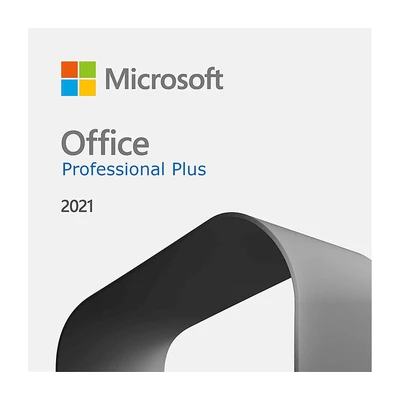
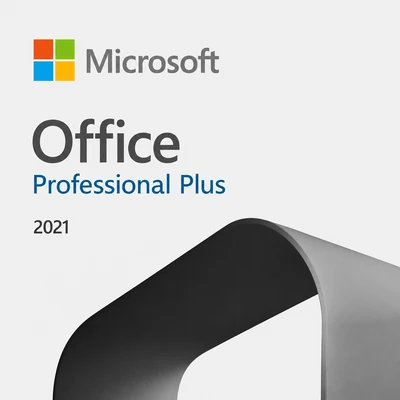
Sostituita immagine prodotto Office 2021 Professional Plus con versione ad alta risoluzione
Stesso crop/inquadratura dell'originale, ridimensionata a 400x400 per restare
coerente col resto del catalogo; rigenerato il gemello .jpg per Google
Merchant Center e ribassati gli hash ?v= su tutte le lingue.

Changed region(s): [[0.06, 0.27, 1.0, 1.0], [0.06, 0.09, 0.57, 0.24], [0.81, 0.6, 0.87, 0.63]]

diff --git a/pt/office-2021-professional-plus.html b/pt/office-2021-professional-plus.html
@@ -136,7 +136,7 @@
     <script src="../js/clarity-init.js?v=fe1cad51a4"></script>
     <link rel="icon" href="../favicon/favicon.png?v=48eb537367" type="image/png">
     <link rel="apple-touch-icon" href="../favicon/apple-touch-icon.png?v=c9d7938f28">
-    <link rel="preload" as="image" href="../asset/media/products/office-2021-professional-plus.webp?v=2e7f79cf4d" fetchpriority="high" type="image/webp">
+    <link rel="preload" as="image" href="../asset/media/products/office-2021-professional-plus.webp?v=621993c717" fetchpriority="high" type="image/webp">
     <link rel="stylesheet" href="../fonts/montserrat.css?v=3da8c0f35d">
     <!-- Font del mockup di riferimento (Plus Jakarta Sans + Inter), scopato alla
          sola PDP tramite --font-sans su .pdp-page — non tocca header/footer,
@@ -415,7 +415,7 @@
             </ecommerce-header>
     <div id="product-sticky-cta" class="product-sticky-cta" role="region" aria-label="Compra rápida" aria-hidden="true">
         <div class="product-sticky-cta__inner">
-            <img class="product-sticky-cta__thumb" src="../asset/media/products/office-2021-professional-plus.webp?v=2e7f79cf4d" width="40" height="40" alt="" loading="lazy" decoding="async">
+            <img class="product-sticky-cta__thumb" src="../asset/media/products/office-2021-professional-plus.webp?v=621993c717" width="40" height="40" alt="" loading="lazy" decoding="async">
             <div class="product-sticky-cta__name">
                 <span class="product-sticky-cta__title">Office 2021 Professional Plus</span>
                 <span class="product-sticky-cta__eta">Entrega em 2–15 min por email</span>
@@ -454,7 +454,7 @@
                 <p class="v2-hero__desc">Office 2021 Professional Plus: suite de secretária completa para Windows com licença digital ESD. Código e instruções por email após a compra.</p>
 
                 <figure class="pdp-media">
-                    <img class="pdp-media__img product-cover-img" src="../asset/media/products/office-2021-professional-plus.webp?v=2e7f79cf4d" width="400" height="400" alt="Office 2021 Professional Plus" fetchpriority="high" decoding="async">
+                    <img class="pdp-media__img product-cover-img" src="../asset/media/products/office-2021-professional-plus.webp?v=621993c717" width="400" height="400" alt="Office 2021 Professional Plus" fetchpriority="high" decoding="async">
                 </figure>
 
                 <div class="pdp-apptabs-block">

diff --git a/it/office-2021-professional-plus.html b/it/office-2021-professional-plus.html
@@ -136,7 +136,7 @@
     <script src="../js/clarity-init.js?v=fe1cad51a4"></script>
     <link rel="icon" href="../favicon/favicon.png?v=48eb537367" type="image/png">
     <link rel="apple-touch-icon" href="../favicon/apple-touch-icon.png?v=c9d7938f28">
-    <link rel="preload" as="image" href="../asset/media/products/office-2021-professional-plus.webp?v=2e7f79cf4d" fetchpriority="high" type="image/webp">
+    <link rel="preload" as="image" href="../asset/media/products/office-2021-professional-plus.webp?v=621993c717" fetchpriority="high" type="image/webp">
     <link rel="stylesheet" href="../fonts/montserrat.css?v=3da8c0f35d">
     <!-- Font del mockup di riferimento (Plus Jakarta Sans + Inter), scopato alla
          sola PDP tramite --font-sans su .pdp-page — non tocca header/footer,
@@ -415,7 +415,7 @@
             </ecommerce-header>
     <div id="product-sticky-cta" class="product-sticky-cta" role="region" aria-label="Acquisto rapido" aria-hidden="true">
         <div class="product-sticky-cta__inner">
-            <img class="product-sticky-cta__thumb" src="../asset/media/products/office-2021-professional-plus.webp?v=2e7f79cf4d" width="40" height="40" alt="" loading="lazy" decoding="async">
+            <img class="product-sticky-cta__thumb" src="../asset/media/products/office-2021-professional-plus.webp?v=621993c717" width="40" height="40" alt="" loading="lazy" decoding="async">
             <div class="product-sticky-cta__name">
                 <span class="product-sticky-cta__title">Office 2021 Professional Plus</span>
                 <span class="product-sticky-cta__eta">Consegna in 2–15 min via Email</span>
@@ -454,7 +454,7 @@
                 <p class="v2-hero__desc">Office 2021 Professional Plus: suite desktop completa per Windows con licenza digitale ESD. Codice e istruzioni via email dopo l'acquisto.</p>
 
                 <figure class="pdp-media">
-                    <img class="pdp-media__img product-cover-img" src="../asset/media/products/office-2021-professional-plus.webp?v=2e7f79cf4d" width="400" height="400" alt="Office 2021 Professional Plus" fetchpriority="high" decoding="async">
+                    <img class="pdp-media__img product-cover-img" src="../asset/media/products/office-2021-professional-plus.webp?v=621993c717" width="400" height="400" alt="Office 2021 Professional Plus" fetchpriority="high" decoding="async">
                 </figure>
 
                 <div class="pdp-apptabs-block">

diff --git a/en/office-2021-professional-plus.html b/en/office-2021-professional-plus.html
@@ -136,7 +136,7 @@
     <script src="../js/clarity-init.js?v=fe1cad51a4"></script>
     <link rel="icon" href="../favicon/favicon.png?v=48eb537367" type="image/png">
     <link rel="apple-touch-icon" href="../favicon/apple-touch-icon.png?v=c9d7938f28">
-    <link rel="preload" as="image" href="../asset/media/products/office-2021-professional-plus.webp?v=2e7f79cf4d" fetchpriority="high" type="image/webp">
+    <link rel="preload" as="image" href="../asset/media/products/office-2021-professional-plus.webp?v=621993c717" fetchpriority="high" type="image/webp">
     <link rel="stylesheet" href="../fonts/montserrat.css?v=3da8c0f35d">
     <!-- Font del mockup di riferimento (Plus Jakarta Sans + Inter), scopato alla
          sola PDP tramite --font-sans su .pdp-page — non tocca header/footer,
@@ -415,7 +415,7 @@
             </ecommerce-header>
     <div id="product-sticky-cta" class="product-sticky-cta" role="region" aria-label="Quick purchase" aria-hidden="true">
         <div class="product-sticky-cta__inner">
-            <img class="product-sticky-cta__thumb" src="../asset/media/products/office-2021-professional-plus.webp?v=2e7f79cf4d" width="40" height="40" alt="" loading="lazy" decoding="async">
+            <img class="product-sticky-cta__thumb" src="../asset/media/products/office-2021-professional-plus.webp?v=621993c717" width="40" height="40" alt="" loading="lazy" decoding="async">
             <div class="product-sticky-cta__name">
                 <span class="product-sticky-cta__title">Office 2021 Professional Plus</span>
                 <span class="product-sticky-cta__eta">Delivered in 2–15 min by email</span>
@@ -454,7 +454,7 @@
                 <p class="v2-hero__desc">Office 2021 Professional Plus: full desktop suite for Windows with a genuine ESD licence. Key and instructions by email after purchase.</p>
 
                 <figure class="pdp-media">
-                    <img class="pdp-media__img product-cover-img" src="../asset/media/products/office-2021-professional-plus.webp?v=2e7f79cf4d" width="400" height="400" alt="Office 2021 Professional Plus" fetchpriority="high" decoding="async">
+                    <img class="pdp-media__img product-cover-img" src="../asset/media/products/office-2021-professional-plus.webp?v=621993c717" width="400" height="400" alt="Office 2021 Professional Plus" fetchpriority="high" decoding="async">
                 </figure>
 
                 <div class="pdp-apptabs-block">

diff --git a/nl/office-2021-professional-plus.html b/nl/office-2021-professional-plus.html
@@ -136,7 +136,7 @@
     <script src="../js/clarity-init.js?v=fe1cad51a4"></script>
     <link rel="icon" href="../favicon/favicon.png?v=48eb537367" type="image/png">
     <link rel="apple-touch-icon" href="../favicon/apple-touch-icon.png?v=c9d7938f28">
-    <link rel="preload" as="image" href="../asset/media/products/office-2021-professional-plus.webp?v=2e7f79cf4d" fetchpriority="high" type="image/webp">
+    <link rel="preload" as="image" href="../asset/media/products/office-2021-professional-plus.webp?v=621993c717" fetchpriority="high" type="image/webp">
     <link rel="stylesheet" href="../fonts/montserrat.css?v=3da8c0f35d">
     <!-- Font del mockup di riferimento (Plus Jakarta Sans + Inter), scopato alla
          sola PDP tramite --font-sans su .pdp-page — non tocca header/footer,
@@ -415,7 +415,7 @@
             </ecommerce-header>
     <div id="product-sticky-cta" class="product-sticky-cta" role="region" aria-label="Snel kopen" aria-hidden="true">
         <div class="product-sticky-cta__inner">
-            <img class="product-sticky-cta__thumb" src="../asset/media/products/office-2021-professional-plus.webp?v=2e7f79cf4d" width="40" height="40" alt="" loading="lazy" decoding="async">
+            <img class="product-sticky-cta__thumb" src="../asset/media/products/office-2021-professional-plus.webp?v=621993c717" width="40" height="40" alt="" loading="lazy" decoding="async">
             <div class="product-sticky-cta__name">
                 <span class="product-sticky-cta__title">Office 2021 Professional Plus</span>
                 <span class="product-sticky-cta__eta">Levering in 2–15 min per e-mail</span>
@@ -454,7 +454,7 @@
                 <p class="v2-hero__desc">Office 2021 Professional Plus: volledige desktop-suite voor Windows met digitale ESD-licentie. Code en instructies per e-mail na aankoop.</p>
 
                 <figure class="pdp-media">
-                    <img class="pdp-media__img product-cover-img" src="../asset/media/products/office-2021-professional-plus.webp?v=2e7f79cf4d" width="400" height="400" alt="Office 2021 Professional Plus" fetchpriority="high" decoding="async">
+                    <img class="pdp-media__img product-cover-img" src="../asset/media/products/office-2021-professional-plus.webp?v=621993c717" width="400" height="400" alt="Office 2021 Professional Plus" fetchpriority="high" decoding="async">
                 </figure>
 
                 <div class="pdp-apptabs-block">

diff --git a/fr/office-2021-professional-plus.html b/fr/office-2021-professional-plus.html
@@ -136,7 +136,7 @@
     <script src="../js/clarity-init.js?v=fe1cad51a4"></script>
     <link rel="icon" href="../favicon/favicon.png?v=48eb537367" type="image/png">
     <link rel="apple-touch-icon" href="../favicon/apple-touch-icon.png?v=c9d7938f28">
-    <link rel="preload" as="image" href="../asset/media/products/office-2021-professional-plus.webp?v=2e7f79cf4d" fetchpriority="high" type="image/webp">
+    <link rel="preload" as="image" href="../asset/media/products/office-2021-professional-plus.webp?v=621993c717" fetchpriority="high" type="image/webp">
     <link rel="stylesheet" href="../fonts/montserrat.css?v=3da8c0f35d">
     <!-- Font del mockup di riferimento (Plus Jakarta Sans + Inter), scopato alla
          sola PDP tramite --font-sans su .pdp-page — non tocca header/footer,
@@ -415,7 +415,7 @@
             </ecommerce-header>
     <div id="product-sticky-cta" class="product-sticky-cta" role="region" aria-label="Achat rapide" aria-hidden="true">
         <div class="product-sticky-cta__inner">
-            <img class="product-sticky-cta__thumb" src="../asset/media/products/office-2021-professional-plus.webp?v=2e7f79cf4d" width="40" height="40" alt="" loading="lazy" decoding="async">
+            <img class="product-sticky-cta__thumb" src="../asset/media/products/office-2021-professional-plus.webp?v=621993c717" width="40" height="40" alt="" loading="lazy" decoding="async">
             <div class="product-sticky-cta__name">
                 <span class="product-sticky-cta__title">Office 2021 Professional Plus</span>
                 <span class="product-sticky-cta__eta">Livraison en 2–15 min par e-mail</span>
@@ -454,7 +454,7 @@
                 <p class="v2-hero__desc">Office 2021 Professional Plus : suite de bureau complète pour Windows, licence ESD originale. Code et instructions par e-mail.</p>
 
                 <figure class="pdp-media">
-                    <img class="pdp-media__img product-cover-img" src="../asset/media/products/office-2021-professional-plus.webp?v=2e7f79cf4d" width="400" height="400" alt="Office 2021 Professional Plus" fetchpriority="high" decoding="async">
+                    <img class="pdp-media__img product-cover-img" src="../asset/media/products/office-2021-professional-plus.webp?v=621993c717" width="400" height="400" alt="Office 2021 Professional Plus" fetchpriority="high" decoding="async">
                 </figure>
 
                 <div class="pdp-apptabs-block">

diff --git a/es/office-2021-professional-plus.html b/es/office-2021-professional-plus.html
@@ -136,7 +136,7 @@
     <script src="../js/clarity-init.js?v=fe1cad51a4"></script>
     <link rel="icon" href="../favicon/favicon.png?v=48eb537367" type="image/png">
     <link rel="apple-touch-icon" href="../favicon/apple-touch-icon.png?v=c9d7938f28">
-    <link rel="preload" as="image" href="../asset/media/products/office-2021-professional-plus.webp?v=2e7f79cf4d" fetchpriority="high" type="image/webp">
+    <link rel="preload" as="image" href="../asset/media/products/office-2021-professional-plus.webp?v=621993c717" fetchpriority="high" type="image/webp">
     <link rel="stylesheet" href="../fonts/montserrat.css?v=3da8c0f35d">
     <!-- Font del mockup di riferimento (Plus Jakarta Sans + Inter), scopato alla
          sola PDP tramite --font-sans su .pdp-page — non tocca header/footer,
@@ -415,7 +415,7 @@
             </ecommerce-header>
     <div id="product-sticky-cta" class="product-sticky-cta" role="region" aria-label="Compra rápida" aria-hidden="true">
         <div class="product-sticky-cta__inner">
-            <img class="product-sticky-cta__thumb" src="../asset/media/products/office-2021-professional-plus.webp?v=2e7f79cf4d" width="40" height="40" alt="" loading="lazy" decoding="async">
+            <img class="product-sticky-cta__thumb" src="../asset/media/products/office-2021-professional-plus.webp?v=621993c717" width="40" height="40" alt="" loading="lazy" decoding="async">
             <div class="product-sticky-cta__name">
                 <span class="product-sticky-cta__title">Office 2021 Professional Plus</span>
                 <span class="product-sticky-cta__eta">Entrega en 2–15 min por email</span>
@@ -454,7 +454,7 @@
                 <p class="v2-hero__desc">Office 2021 Professional Plus: suite de escritorio completa para Windows con licencia ESD. Clave e instrucciones por email.</p>
 
                 <figure class="pdp-media">
-                    <img class="pdp-media__img product-cover-img" src="../asset/media/products/office-2021-professional-plus.webp?v=2e7f79cf4d" width="400" height="400" alt="Office 2021 Professional Plus" fetchpriority="high" decoding="async">
+                    <img class="pdp-media__img product-cover-img" src="../asset/media/products/office-2021-professional-plus.webp?v=621993c717" width="400" height="400" alt="Office 2021 Professional Plus" fetchpriority="high" decoding="async">
                 </figure>
 
                 <div class="pdp-apptabs-block">

diff --git a/de/office-2021-professional-plus.html b/de/office-2021-professional-plus.html
@@ -136,7 +136,7 @@
     <script src="../js/clarity-init.js?v=fe1cad51a4"></script>
     <link rel="icon" href="../favicon/favicon.png?v=48eb537367" type="image/png">
     <link rel="apple-touch-icon" href="../favicon/apple-touch-icon.png?v=c9d7938f28">
-    <link rel="preload" as="image" href="../asset/media/products/office-2021-professional-plus.webp?v=2e7f79cf4d" fetchpriority="high" type="image/webp">
+    <link rel="preload" as="image" href="../asset/media/products/office-2021-professional-plus.webp?v=621993c717" fetchpriority="high" type="image/webp">
     <link rel="stylesheet" href="../fonts/montserrat.css?v=3da8c0f35d">
     <!-- Font del mockup di riferimento (Plus Jakarta Sans + Inter), scopato alla
          sola PDP tramite --font-sans su .pdp-page — non tocca header/footer,
@@ -415,7 +415,7 @@
             </ecommerce-header>
     <div id="product-sticky-cta" class="product-sticky-cta" role="region" aria-label="Schnellkauf" aria-hidden="true">
         <div class="product-sticky-cta__inner">
-            <img class="product-sticky-cta__thumb" src="../asset/media/products/office-2021-professional-plus.webp?v=2e7f79cf4d" width="40" height="40" alt="" loading="lazy" decoding="async">
+            <img class="product-sticky-cta__thumb" src="../asset/media/products/office-2021-professional-plus.webp?v=621993c717" width="40" height="40" alt="" loading="lazy" decoding="async">
             <div class="product-sticky-cta__name">
                 <span class="product-sticky-cta__title">Office 2021 Professional Plus</span>
                 <span class="product-sticky-cta__eta">Lieferung in 2–15 Min. per E-Mail</span>
@@ -454,7 +454,7 @@
                 <p class="v2-hero__desc">Office 2021 Professional Plus: vollständige Desktop-Suite für Windows als ESD-Lizenz. Key und Anleitung per E-Mail.</p>
 
                 <figure class="pdp-media">
-                    <img class="pdp-media__img product-cover-img" src="../asset/media/products/office-2021-professional-plus.webp?v=2e7f79cf4d" width="400" height="400" alt="Office 2021 Professional Plus" fetchpriority="high" decoding="async">
+                    <img class="pdp-media__img product-cover-img" src="../asset/media/products/office-2021-professional-plus.webp?v=621993c717" width="400" height="400" alt="Office 2021 Professional Plus" fetchpriority="high" decoding="async">
                 </figure>
 
                 <div class="pdp-apptabs-block">

diff --git a/es/suite-office.html b/es/suite-office.html
@@ -440,7 +440,7 @@
                 >
                     <a href="office-2021-professional-plus.html" class="product-card-body product-card--link">
                         <div class="product-card-media">
-                            <img src="../asset/media/products/office-2021-professional-plus.webp?v=2e7f79cf4d" width="400" height="400" alt="Office 2021 Professional Plus" decoding="async" class="product-card-img" onerror="this.onerror=null;this.src='../asset/media/product-cover-fallback.webp'">
+                            <img src="../asset/media/products/office-2021-professional-plus.webp?v=621993c717" width="400" height="400" alt="Office 2021 Professional Plus" decoding="async" class="product-card-img" onerror="this.onerror=null;this.src='../asset/media/product-cover-fallback.webp'">
                         </div>
                         <p class="product-card-name">Office 2021 Professional Plus</p>
                         <p class="product-card-blurb">Licencia ESD · setup.office.com</p>

diff --git a/nl/suite-office.html b/nl/suite-office.html
@@ -440,7 +440,7 @@
                 >
                     <a href="office-2021-professional-plus.html" class="product-card-body product-card--link">
                         <div class="product-card-media">
-                            <img src="../asset/media/products/office-2021-professional-plus.webp?v=2e7f79cf4d" width="400" height="400" alt="Office 2021 Professional Plus" decoding="async" class="product-card-img" onerror="this.onerror=null;this.src='../asset/media/product-cover-fallback.webp'">
+                            <img src="../asset/media/products/office-2021-professional-plus.webp?v=621993c717" width="400" height="400" alt="Office 2021 Professional Plus" decoding="async" class="product-card-img" onerror="this.onerror=null;this.src='../asset/media/product-cover-fallback.webp'">
                         </div>
                         <p class="product-card-name">Office 2021 Professional Plus</p>
                         <p class="product-card-blurb">ESD-licentie · setup.office.com</p>

diff --git a/pt/suite-office.html b/pt/suite-office.html
@@ -440,7 +440,7 @@
                 >
                     <a href="office-2021-professional-plus.html" class="product-card-body product-card--link">
                         <div class="product-card-media">
-                            <img src="../asset/media/products/office-2021-professional-plus.webp?v=2e7f79cf4d" width="400" height="400" alt="Office 2021 Professional Plus" decoding="async" class="product-card-img" onerror="this.onerror=null;this.src='../asset/media/product-cover-fallback.webp'">
+                            <img src="../asset/media/products/office-2021-professional-plus.webp?v=621993c717" width="400" height="400" alt="Office 2021 Professional Plus" decoding="async" class="product-card-img" onerror="this.onerror=null;this.src='../asset/media/product-cover-fallback.webp'">
                         </div>
                         <p class="product-card-name">Office 2021 Professional Plus</p>
                         <p class="product-card-blurb">Licença ESD · setup.office.com</p>

diff --git a/en/suite-office.html b/en/suite-office.html
@@ -440,7 +440,7 @@
                 >
                     <a href="office-2021-professional-plus.html" class="product-card-body product-card--link">
                         <div class="product-card-media">
-                            <img src="../asset/media/products/office-2021-professional-plus.webp?v=2e7f79cf4d" width="400" height="400" alt="Office 2021 Professional Plus" decoding="async" class="product-card-img" onerror="this.onerror=null;this.src='../asset/media/product-cover-fallback.webp'">
+                            <img src="../asset/media/products/office-2021-professional-plus.webp?v=621993c717" width="400" height="400" alt="Office 2021 Professional Plus" decoding="async" class="product-card-img" onerror="this.onerror=null;this.src='../asset/media/product-cover-fallback.webp'">
                         </div>
                         <p class="product-card-name">Office 2021 Professional Plus</p>
                         <p class="product-card-blurb">ESD licence · setup.office.com</p>

diff --git a/fr/suite-office.html b/fr/suite-office.html
@@ -440,7 +440,7 @@
                 >
                     <a href="office-2021-professional-plus.html" class="product-card-body product-card--link">
                         <div class="product-card-media">
-                            <img src="../asset/media/products/office-2021-professional-plus.webp?v=2e7f79cf4d" width="400" height="400" alt="Office 2021 Professional Plus" decoding="async" class="product-card-img" onerror="this.onerror=null;this.src='../asset/media/product-cover-fallback.webp'">
+                            <img src="../asset/media/products/office-2021-professional-plus.webp?v=621993c717" width="400" height="400" alt="Office 2021 Professional Plus" decoding="async" class="product-card-img" onerror="this.onerror=null;this.src='../asset/media/product-cover-fallback.webp'">
                         </div>
                         <p class="product-card-name">Office 2021 Professional Plus</p>
                         <p class="product-card-blurb">Licence ESD · setup.office.com</p>
